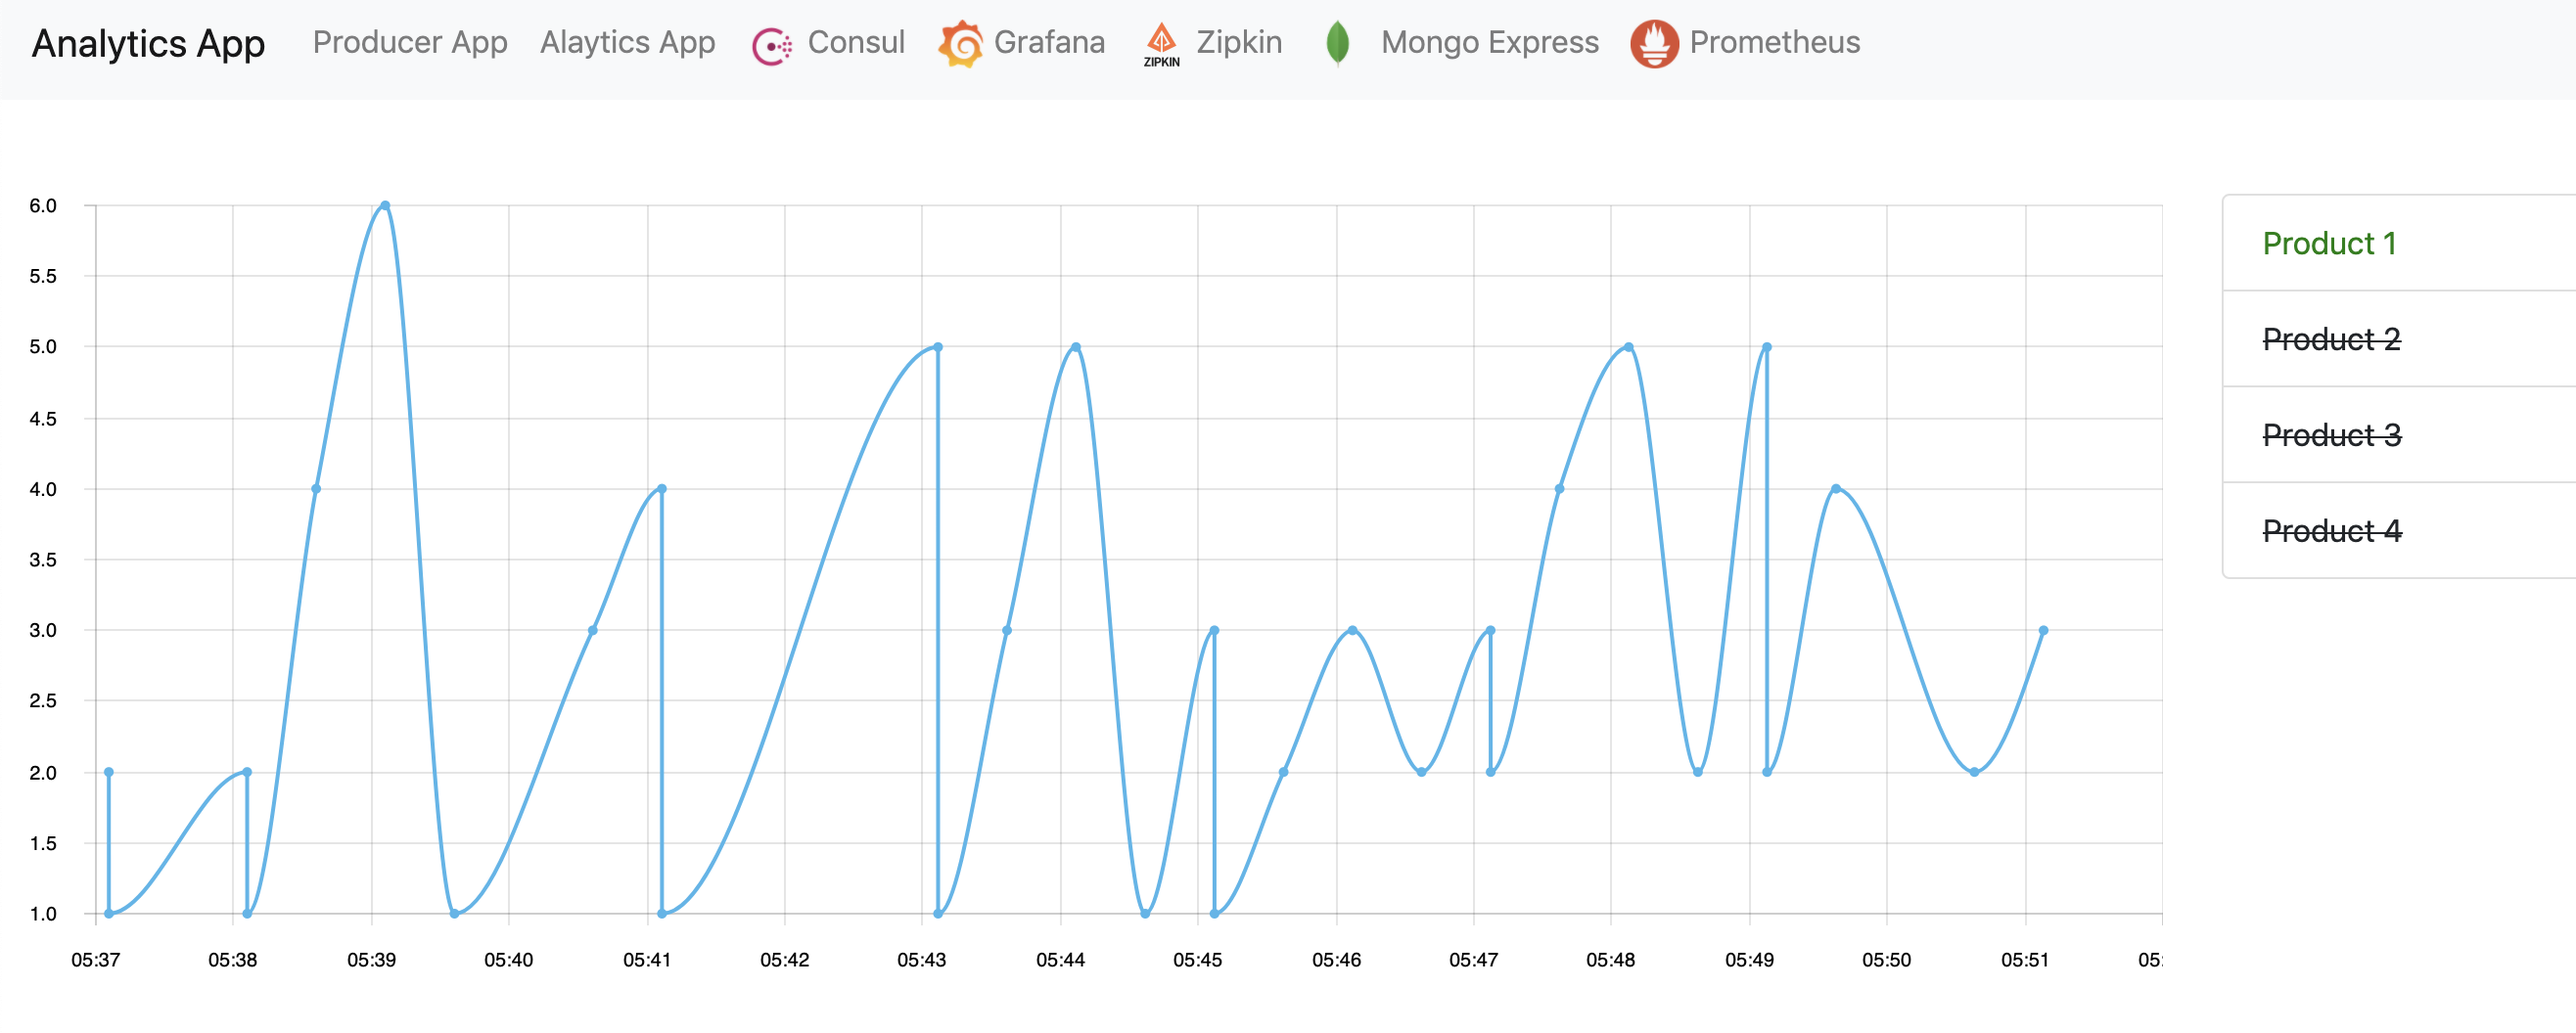
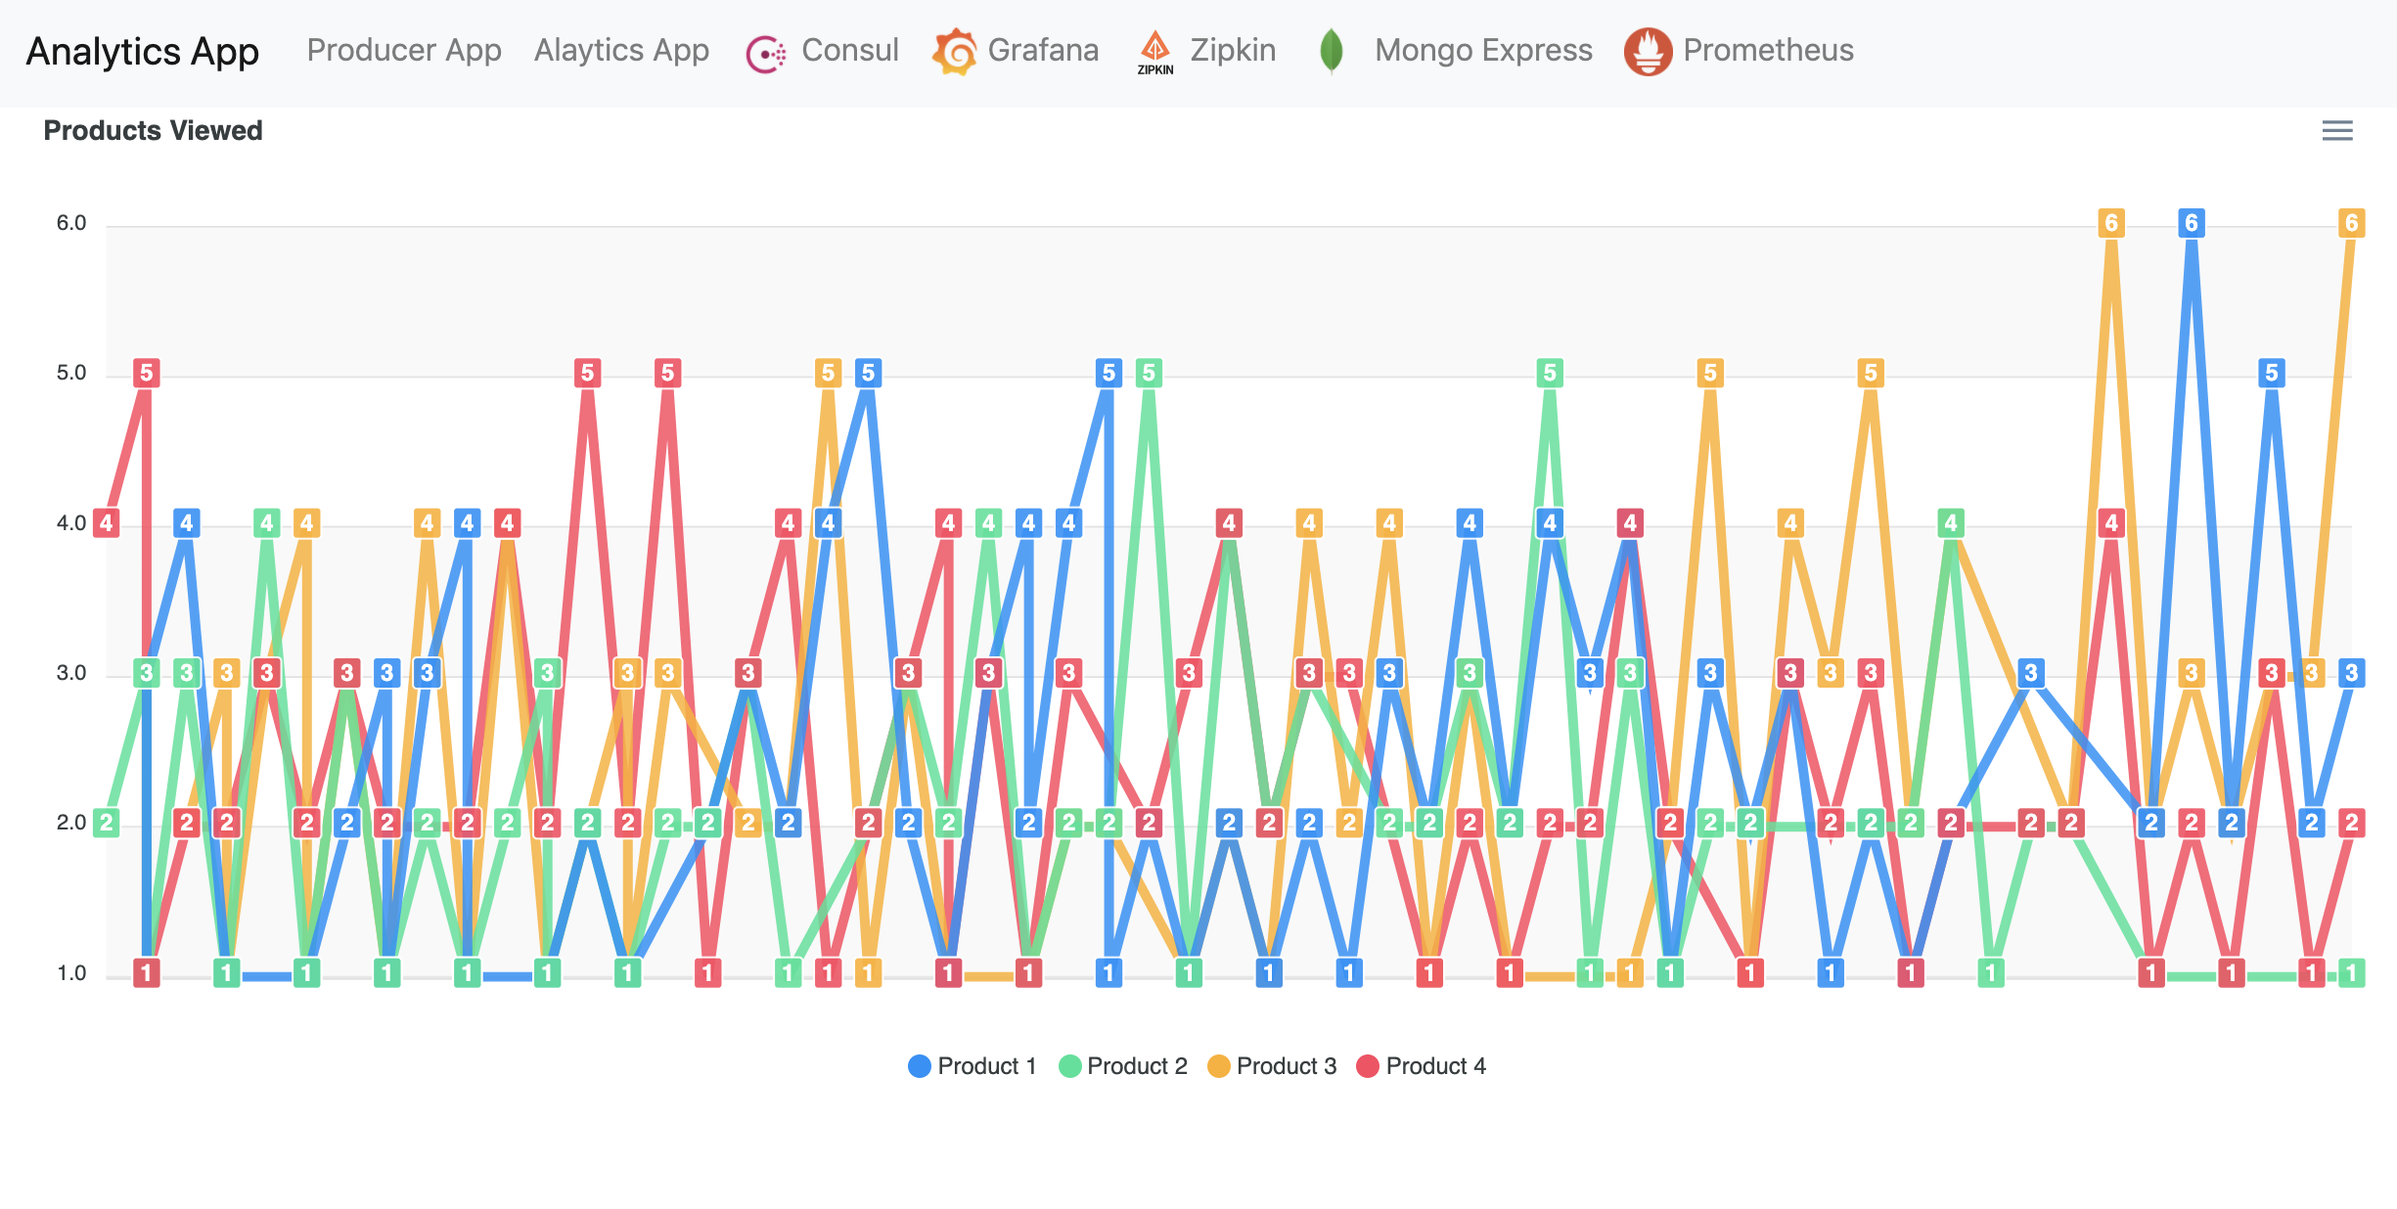
Readme , UI Updates

diff --git a/ui/src/components/MyChart.tsx b/ui/src/components/MyChart.tsx
@@ -1,80 +1,56 @@
 import * as React from 'react';
-import { Chart } from 'react-charts';
+import Chart from "react-apexcharts";
 
-interface ChartState { 
-  axes: any,
-  data: [],
-  keys: [string,boolean][],
-  viewData: {}
-}
-
-export class MyChart extends React.Component<{}, ChartState> {
+export class MyApexChart extends React.Component<{}, {}> {
   constructor(props) {
     super(props);
-    this.state = {
-      data: [],
-      viewData: {},
-      keys: [],
-      axes: [
-        { primary: true, type: 'time', position: 'bottom' },
-        { type: 'linear', position: 'left' }
-      ],
-    }
-    
+
     const getData = () => { 
       fetch("/analysis/views").then(response => response.json()).then(d => {
         console.log(d)
-        let keys = d.map(o => [o.label, true]);
-        let visibleKeys = keys.filter(keyItem => keyItem[1]).map(keyItem => keyItem[0])
-        let viewData = d.filter(o => visibleKeys.indexOf(o.label) != -1);
-        this.setState({ data: d, viewData : viewData , keys: keys});
+        this.setState({ series: d});
       });
     }
-    
+    this.state = {
+      series: [],
+      options: {
+        chart: {
+          height: 500,
+          type: 'line',
+          zoom: {
+            enabled: false
+          }
+        },
+        dataLabels: {
+          enabled: true
+        },
+        stroke: {
+          curve: 'straight'
+        },
+        title: {
+          text: 'Products Viewed',
+          align: 'left'
+        },
+        grid: {
+          row: {
+            colors: ['#f3f3f3', 'transparent'], // takes an array which will be repeated on columns
+            opacity: 0.5
+          },
+        },
+        xaxis: {
+          categories: ['Jan', 'Feb', 'Mar', 'Apr', 'May', 'Jun', 'Jul', 'Aug', 'Sep'],
+        }
+      },
+
+    };
+
     getData();
-    setInterval(() => getData(), 30000);
-
-    this.toggleKeys = this.toggleKeys.bind(this);
   }
-
-  toggleKeys(k: string){ 
-    let keys = this.state.keys.map(keyItem => { 
-      if (keyItem[0] == k) {
-        return [keyItem[0], !keyItem[1]];
-      }
-      return keyItem;
-    });
-
-   let visibleKeys = keys.filter(keyItem => keyItem[1]).map(keyItem => keyItem[0])
-   let viewData = this.state.data.filter(o => visibleKeys.indexOf(o.label) != -1);
-   this.setState({viewData : viewData , keys: keys})
-  }
-
-
-
-  render() { 
+  render() {
     return (
-      <>
-        <div className="row mt-5">
-          <div className="col-8">
-                <div
-              style={{
-                  width: '100%',
-                  height: '400px'
-              }}
-              >
-              <Chart data={this.state.viewData} axes={this.state.axes} />
-            </div>
-          </div>
-        <div className="col-4">
-          <ul className="list-group list-group-horizontal">
-            {
-              this.state.keys.map(k => (<li className="list-group-item"><span onClick={() => this.toggleKeys(k[0])} className={k[1]? 'on' : 'off'}>{k[0]}</span></li>))
-            }
-          </ul>
-          </div>
-          </div>
-      </>
-    )
+      <div id="chart">
+        <Chart options={this.state.options} series={this.state.series} type="line" height={500} />
+      </div>
+    );
   }
 }

diff --git a/ui/src/components/ProductComponent.tsx b/ui/src/components/ProductComponent.tsx
@@ -4,17 +4,20 @@ import { useState, useEffect } from "react";
 import products, { Product } from '../data/products';
 
 
-export class ProductComponent extends React.Component<{}, {}> {
+export class ProductComponent extends React.Component<{generateRandom: boolean}, {}> {
   
   constructor(props) {
     super(props);
     this.handleClick = this.handleClick.bind(this);
     this.productCard = this.productCard.bind(this);
 
-    setInterval(() => {
-      let randomIndex = Math.floor(Math.random() * products.length);
-      this.handleClick(products[randomIndex]);
-    }, 5000);    
+    if (props.generateRandom) { 
+      setInterval(() => {
+        let randomIndex = Math.floor(Math.random() * products.length);
+        this.handleClick(products[randomIndex]);
+      }, 5000); 
+    }
+    
 
   }
 

diff --git a/ui/src/producer.tsx b/ui/src/producer.tsx
@@ -7,16 +7,7 @@ import { StructureComponent } from "./components/StructureComponent";
 ReactDOM.render(
   <>
     <StructureComponent appName="Producer App" fluid={false}>
-      <div className="row mt-3">
-          <div className="col-12">
-          <div className="card">
-            <div className="card-body">
-            This Page will generate one Random Product event every 5 seconds
-            </div>
-          </div>
-        </div>
-      </div>
-      <ProductComponent/>
+      <ProductComponent generateRandom={false}/>
     </StructureComponent>
     </>,
     document.getElementById("root")

diff --git a/ui/src/data/products.ts b/ui/src/data/products.ts
@@ -8,22 +8,22 @@ const products: Product[] = [
   {
     id: 0,
     name: "Product 1",
-    url: "https://picsum.photos/200/250",
+    url: "images/products/product1.jpg",
   },
   {
     id: 1,
     name: "Product 2",
-    url: "https://picsum.photos/201/250",
+    url: "images/products/product2.jpg",
   },
   {
     id: 2,
     name: "Product 3",
-    url: "https://picsum.photos/200/251",
+    url: "images/products/product3.jpg",
   },
   {
     id: 3,
     name: "Product 4",
-    url: "https://picsum.photos/202/250",
+    url: "images/products/product4.jpg",
   },
 ];
 

diff --git a/ui/src/analytics.tsx b/ui/src/analytics.tsx
@@ -1,12 +1,13 @@
 import * as React from "react";
 import * as ReactDOM from "react-dom";
-import { MyChart } from "./components/MyChart";
+import { MyChart, MyApexChart } from "./components/MyChart";
 import { StructureComponent } from "./components/StructureComponent";
 
 ReactDOM.render(
   <>
     <StructureComponent appName="Analytics App" fluid={true}>
-      <MyChart />
+      {/* <MyChart /> */}
+      <MyApexChart/>
     </StructureComponent>
   </>,
   document.getElementById("root")

diff --git a/src/main/java/producer/cron/SampleProductViewDataCronjob.java b/src/main/java/producer/cron/SampleProductViewDataCronjob.java
@@ -1,0 +1,57 @@
+package producer.cron;
+
+import com.mongodb.client.model.Filters;
+import consumer.mongodb.MongoService;
+import consumer.vo.ProductViewCount;
+import io.micronaut.context.annotation.Requires;
+import io.micronaut.core.io.buffer.ByteBuffer;
+import io.micronaut.http.HttpRequest;
+import io.micronaut.http.HttpResponse;
+import io.micronaut.http.client.HttpClient;
+import io.micronaut.http.client.annotation.Client;
+import io.micronaut.scheduling.annotation.Scheduled;
+import org.reactivestreams.Subscriber;
+import org.reactivestreams.Subscription;
+import org.slf4j.Logger;
+import org.slf4j.LoggerFactory;
+import producer.vo.Product;
+
+import javax.inject.Inject;
+import javax.inject.Singleton;
+import java.net.URI;
+import java.util.Date;
+import java.util.Random;
+import java.util.concurrent.Flow;
+
+@Requires(env = "producer")
+@Singleton
+public class SampleProductViewDataCronjob {
+
+    private static final Random random = new Random();
+    private static final Logger LOG = LoggerFactory.getLogger(SampleProductViewDataCronjob.class);
+
+    @Inject
+    @Client("/")
+    HttpClient client;
+
+    @Scheduled(fixedDelay = "5s",initialDelay = "5s")
+    public void generateProductView(){
+
+        var product = randomProduct();
+        LOG.info("sending: {}", product);
+        var request = HttpRequest.POST(URI.create("/products/view"), product);
+        client.toBlocking().exchange(request);
+    }
+
+    private static Product randomProduct(){
+        var randId = random.nextInt(4);
+
+        var product = new Product();
+
+        product.setId(randId+"");
+        product.setName("Product "+ (randId+1));
+        product.setUrl("doesnt matter");
+
+        return product;
+    }
+}

diff --git a/src/main/java/common/Application.java b/src/main/java/common/Application.java
@@ -4,13 +4,14 @@ import io.micronaut.runtime.Micronaut;
 
 public class Application {
 
-    private static final String ENVIRONMENT_PROP = "micronaut.environments";
+    private static final String MICRONAUT_ENVIRONMENTS_SYSTEM_PROP = "micronaut.environments";
+    public static final String MICRONAUT_ENVIRONMENTS_ENV_PROP = "MICRONAUT_ENVIRONMENTS";
 
     public static void main(String[] args) throws Exception {
-        if(System.getProperty("micronaut.environments") != null){
-            String env = System.getProperty("micronaut.environments");
+        if(System.getProperty(MICRONAUT_ENVIRONMENTS_SYSTEM_PROP) != null){
+            String env = System.getProperty(MICRONAUT_ENVIRONMENTS_SYSTEM_PROP);
             System.setProperty("logback.configurationFile","logback_"+env+".xml");
-        } else if(System.getenv().containsKey("MICRONAUT_ENVIRONMENTS")){
+        } else if(System.getenv().containsKey(MICRONAUT_ENVIRONMENTS_ENV_PROP)){
             String env = (String)System.getenv().get("MICRONAUT_ENVIRONMENTS");
             System.setProperty("logback.configurationFile","logback_"+env+".xml");
         }

diff --git a/src/main/java/consumer/cron/DataPurgeCronjob.java b/src/main/java/consumer/cron/DataPurgeCronjob.java
@@ -1,0 +1,29 @@
+package consumer.cron;
+
+import com.mongodb.client.model.Filters;
+import consumer.mongodb.MongoService;
+import io.micronaut.context.annotation.Requires;
+import io.micronaut.scheduling.annotation.Scheduled;
+import org.slf4j.Logger;
+import org.slf4j.LoggerFactory;
+
+import javax.inject.Inject;
+import javax.inject.Singleton;
+import java.util.Date;
+
+@Requires(env = "consumer")
+@Singleton
+public class DataPurgeCronjob {
+
+    private static final Logger LOG = LoggerFactory.getLogger(DataPurgeCronjob.class);
+
+    @Inject
+    MongoService mongoService;
+
+    @Scheduled(fixedDelay = "1m",initialDelay = "5s")
+    public void deleteOldData(){
+        Date pastDate = new Date(new Date().getTime() - 30*60L*1000L);
+        var deleteRes = mongoService.getProductCollection().deleteMany(Filters.lt("time",pastDate));
+        LOG.info("Deleted {} rows",deleteRes.getDeletedCount());
+    }
+}

diff --git a/src/main/java/analytics/controller/ChartController.java b/src/main/java/analytics/controller/ChartController.java
@@ -26,11 +26,13 @@ public class ChartController {
     public List<Map<String,Object>> getViewData(){
         LOG.info("fetching data from API Server");
         var data = apiClient.getViews();
-        return data.entrySet().stream()
+        var retData =  data.entrySet().stream()
                 .map(e -> Map.of(
-                        "label", e.getKey(), "data",
+                        "name", e.getKey(),
+                        "data",
                         e.getValue().stream().map(v -> new Object[]{v.getTime(),v.getViews()}).collect(Collectors.toList())))
                 .collect(Collectors.toList());
+        return retData;
     }
 
 }

diff --git a/src/main/java/consumer/controller/ApiController.java b/src/main/java/consumer/controller/ApiController.java
@@ -38,7 +38,7 @@ public class ApiController {
     @Get(value = "/views")
     public Map<String,List<ProductViewCount>> greet(){
         LOG.info("serving Product Analysis Data");
-        int units = 15;
+        int units = 30;
         Date pastDate = new Date(new Date().getTime() - units*60L*1000L);
         var data = StreamSupport.stream(
                 mongoService.getProductCollection().find(Filters.gt("time",pastDate)).spliterator()
